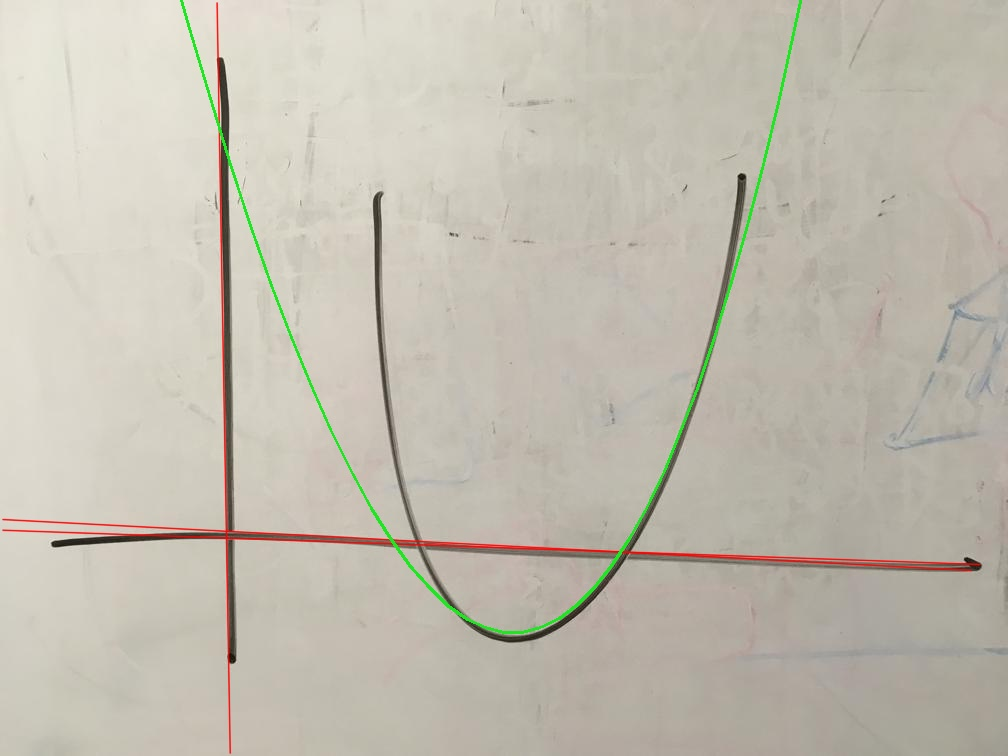
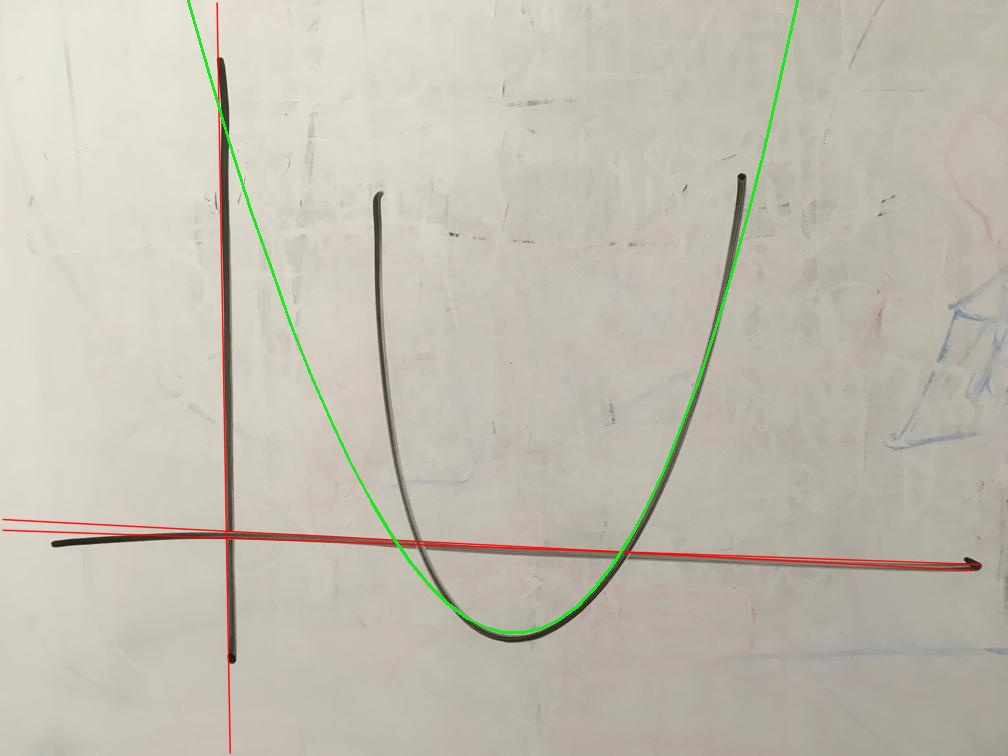
Fixing color

diff --git a/app/models/Hough.py b/app/models/Hough.py
@@ -26,7 +26,7 @@ class Hough:
       pt1 = (int(x0 + 1000 * (-b)), int(y0 + 1000 * (a)))
       pt2 = (int(x0 - 1000 * (-b)), int(y0 - 1000 * (a)))
 
-      cv2.line(image, pt1, pt2, (0, 0, 255), 1, cv2.LINE_AA)
+      cv2.line(image, pt1, pt2, (255, 0, 0), 1, cv2.LINE_AA)
       cv2.line(edges, pt1, pt2, (0, 0, 0), 15, cv2.LINE_AA)
 
     return angles
